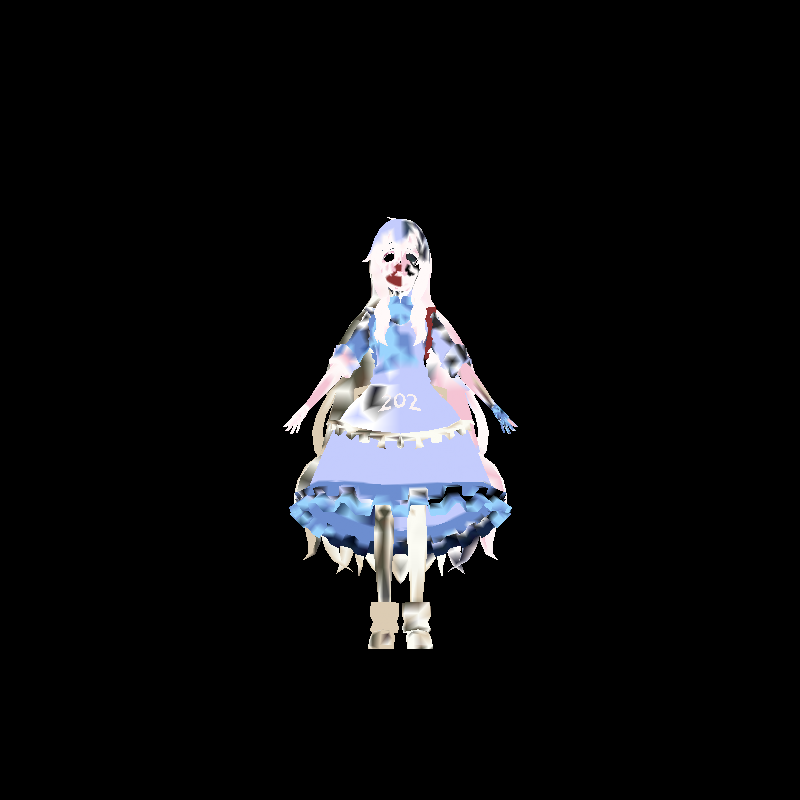
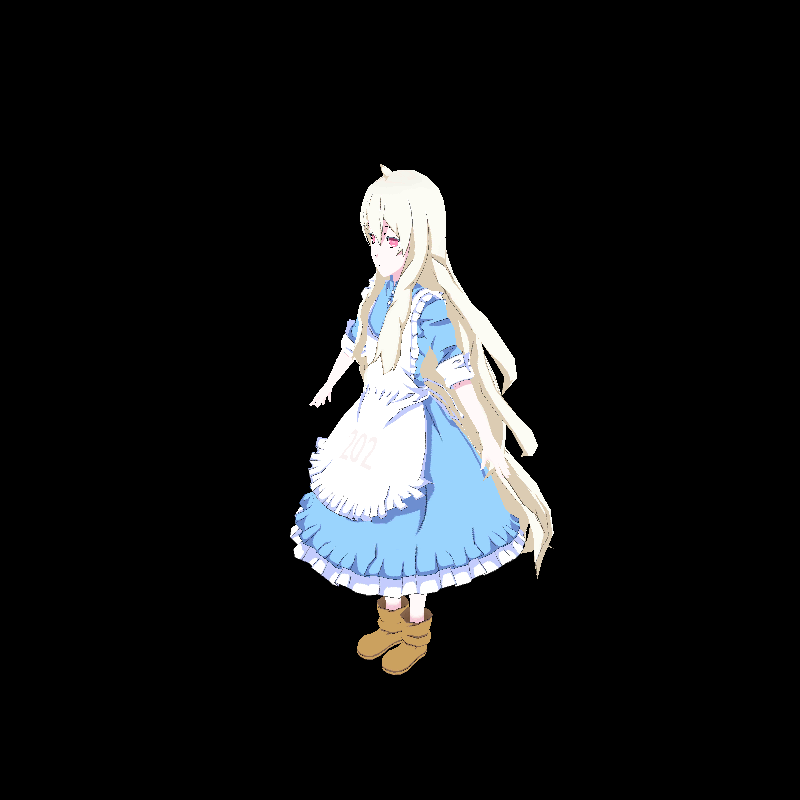
TexShader01

Changed region(s): [[0.3438, 0.1875, 0.6875, 0.8438]]

diff --git a/shaders.h b/shaders.h
@@ -74,7 +74,6 @@ class TexShader : public Shader {
 public:
     Matrix uniform_mat_transform;
     Vec2f varying_uv[3];
-    Vec4f varying_color[3];
     virtual void vertex(const InVectex &in, OutVectex &out) {
         Vec4f vertex = Vec4f(in.v, 1.0f);
         vertex = uniform_mat_transform*vertex;
@@ -84,23 +83,17 @@ public:
         // tex
         Vec2f uv = in.model->tex(in.nthface, in.nthvert);
         varying_uv[in.nthvert] = uv;
-
-        Vec4f color;
-        in.model->sampleDiffuse(uv, color);
-        varying_color[in.nthvert] = color;
     }
 
     virtual bool fragment(const InFragment &in, OutFragment &out) {
         Vec3f bar = in.bar;
-        // Vec2f uv = varying_uv[0]*bar[0]+varying_uv[1]*bar[1]+varying_uv[2]*bar[2];
-        // Vec4f color;
+        Vec2f uv = varying_uv[0]*bar[0]+varying_uv[1]*bar[1]+varying_uv[2]*bar[2];
+        Vec4f color;
         // float depth = 1.0f-std::pow(cos(in.depth*M_PI/2), 1);
-        // in.model->sampleDiffuse(uv, color);
+        in.model->sampleDiffuse(uv, color);
         // if (color.x == 0.0f && color.y == 0.0f && color.z == 0.0f) {
         //     std::cout << uv[0]*2048 << " " << uv[1]*1024 << std::endl;
         // }
-
-        Vec4f color = varying_color[0]*bar[0]+varying_color[1]*bar[1]+varying_color[2]*bar[2];
         out.color = color.v3f();
         return false;
     }

diff --git a/model.cpp b/model.cpp
@@ -33,7 +33,7 @@ Model::Model(const char *filename) : verts(), normals(), textures(), faces() {
             int vI, vnI, vtI;
             int index = 0;
             iss >> trash;
-            while (iss >> vI >> trash >> vnI >> trash >> vtI) {
+            while (iss >> vI >> trash >> vtI >> trash >> vnI) {
                 vI--, vnI--, vtI--; // in wavefront obj all indices start at 1, not zero
                 v[index] = vI, vn[index] = vnI, vt[index]=vtI;
                 index++;
@@ -44,6 +44,7 @@ Model::Model(const char *filename) : verts(), normals(), textures(), faces() {
             iss >> trash >> trash;
             Vec2f vt;
             for (int i=0;i<2;i++) iss >> vt[i];
+            vt[1] = 1.0f-vt[1]; // the origin is at the left top cornor of image.
             textures.push_back(vt);
         } else if (!line.compare(0, 3, "vn ")) {
             iss >> trash >> trash;

diff --git a/objects.h b/objects.h
@@ -58,7 +58,7 @@ struct Sample2D {
         y = std::max(0, std::min(height-1, y));
         // std::cout << "(u, v): " << uv[0] << " " << uv[1] << " ";
         // std::cout << "(x, y): " << x << " " << y << std::endl;
-        int index = ((height-1-y)*width+x)*channel;
+        int index = (y*width+x)*channel;
         if (channel == 1) {
             val[0] = data[index];
             val[1] = data[index];

diff --git a/main.cpp b/main.cpp
@@ -102,7 +102,7 @@ void Example02() {
 // 加载纹理图片
 void Example03() {
     const Vec3f light(1,1,1);
-    const Vec3f camera(0,0,1);
+    const Vec3f camera(1,1,1);
     const Vec3f origin(0,0,0);
     const Vec3f up(0,1,0);
     QGL::Frame frame = QGL::Frame(width, height);
